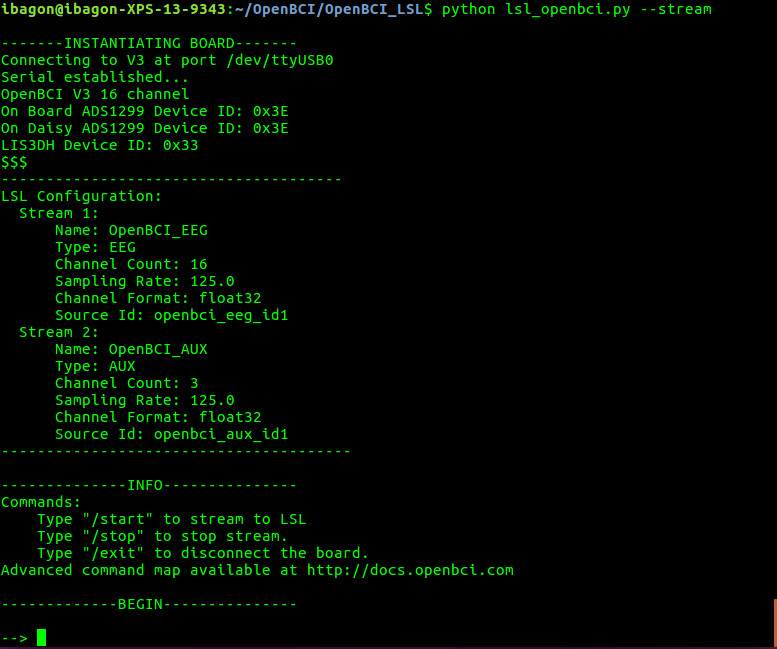
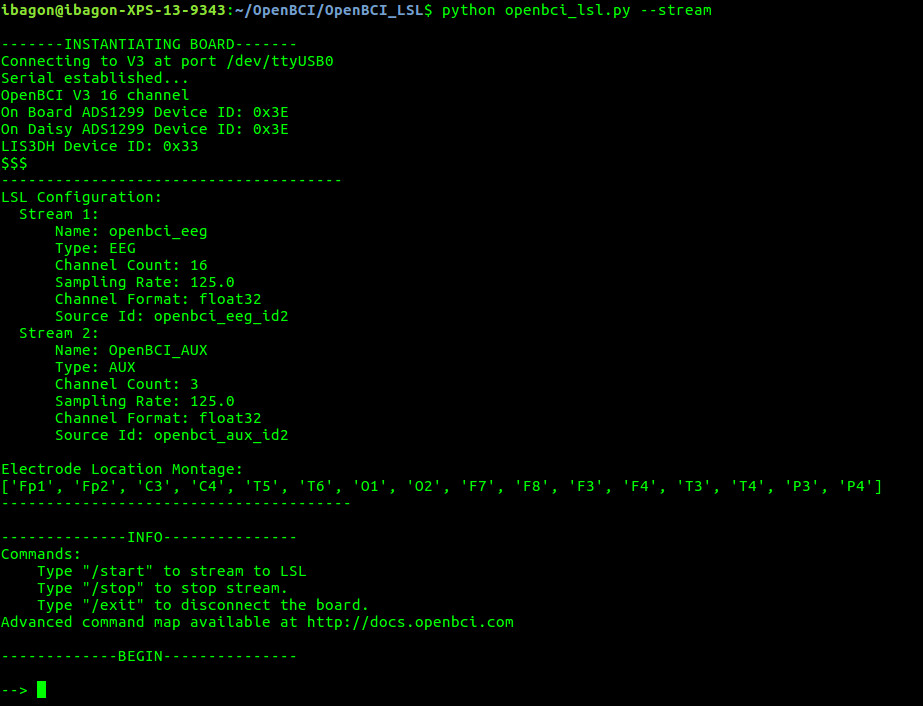
updated readme for ch locations

diff --git a/readme.md b/readme.md
@@ -7,6 +7,7 @@ Lab streaming layer is a networking system for real time streaming, recording, a
 
 The [OpenBCI_LSL](link) repo contains a Python script that establishes an LSL stream of OpenBCI data, as well as the libraries and files needed to run LSL. Works on Windows, OSX, and Linux.
 
+If you're having any issues, please see the [Troubleshooting](#TROUBLESHOOTING) section of this document. If your issue is not listed there, raise an issue on this Github repo.
 
 
 # SETUP
@@ -74,6 +75,14 @@ To view current board and register settings, enter: `--> ?`
 
 If you get an error message at any point while using the command line interface, check the [Troubleshooting](#troubleshooting) section, or pull up an issue on the Github repository.
 
+#### Changing Channel Locations from the command line interface
+
+To change the channel location metadata of the stream, type `/loc` followed by a space and then a comma-separated list of new set of channel locations. For example, to change the default channel locations to a new set of eight channels, the command might look like this:
+
+`-->/loc F3,F4,C3,C4,T3,T4,P3,P4`
+
+This can only be done while the board is not currently streaming.
+
 ## GUI
 
 If you would like the ability to configure the board and LSL stream with advanced settings, you can do so by running the GUI. The GUI comes up by default if you run the program with no flags:
@@ -97,5 +106,3 @@ To change the channel settings, click on "Board Config". Note: this must be done
 # Troubleshooting
 
 Note: Many issues with board connectivity can simply be resolved by restarting the program and your board. Unplug your dongle, turn off the board, plug in the dongle, and turn on the board, in that order. This method works the most consistently.
-
-TODO
